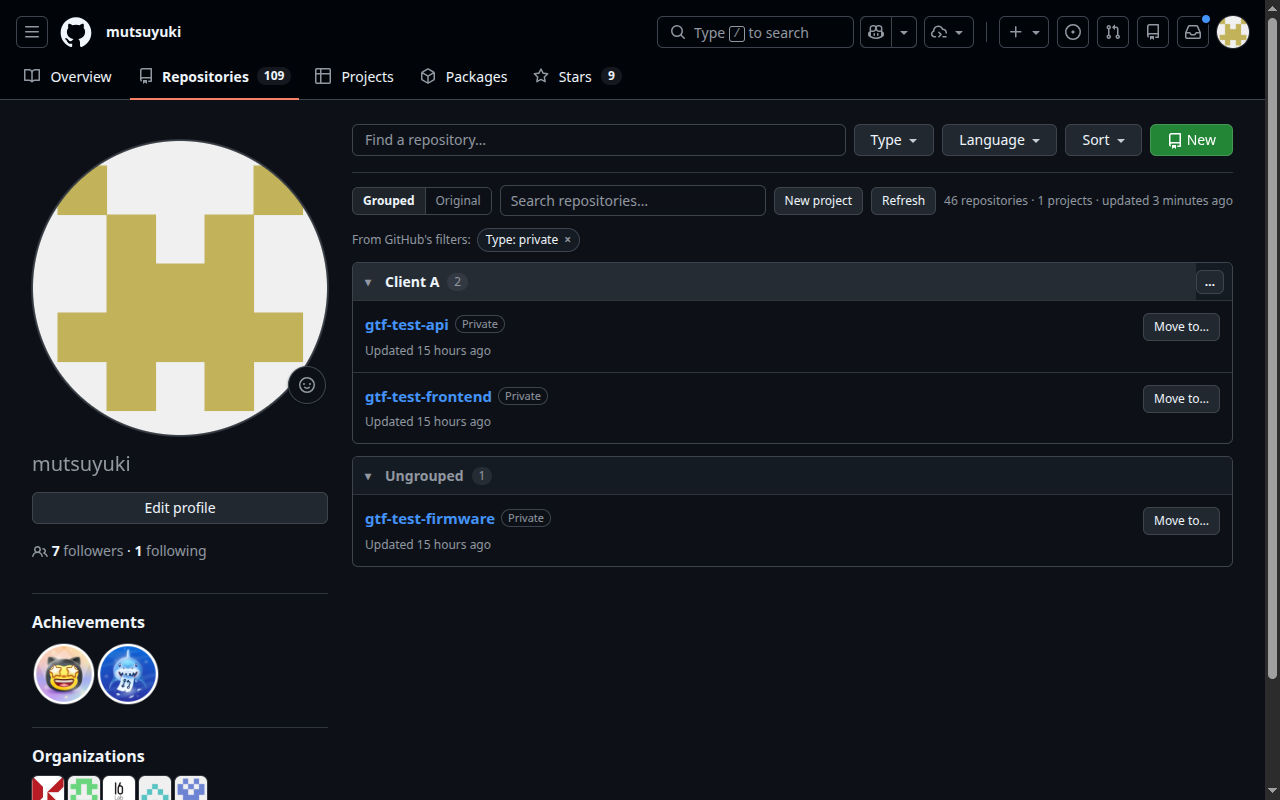
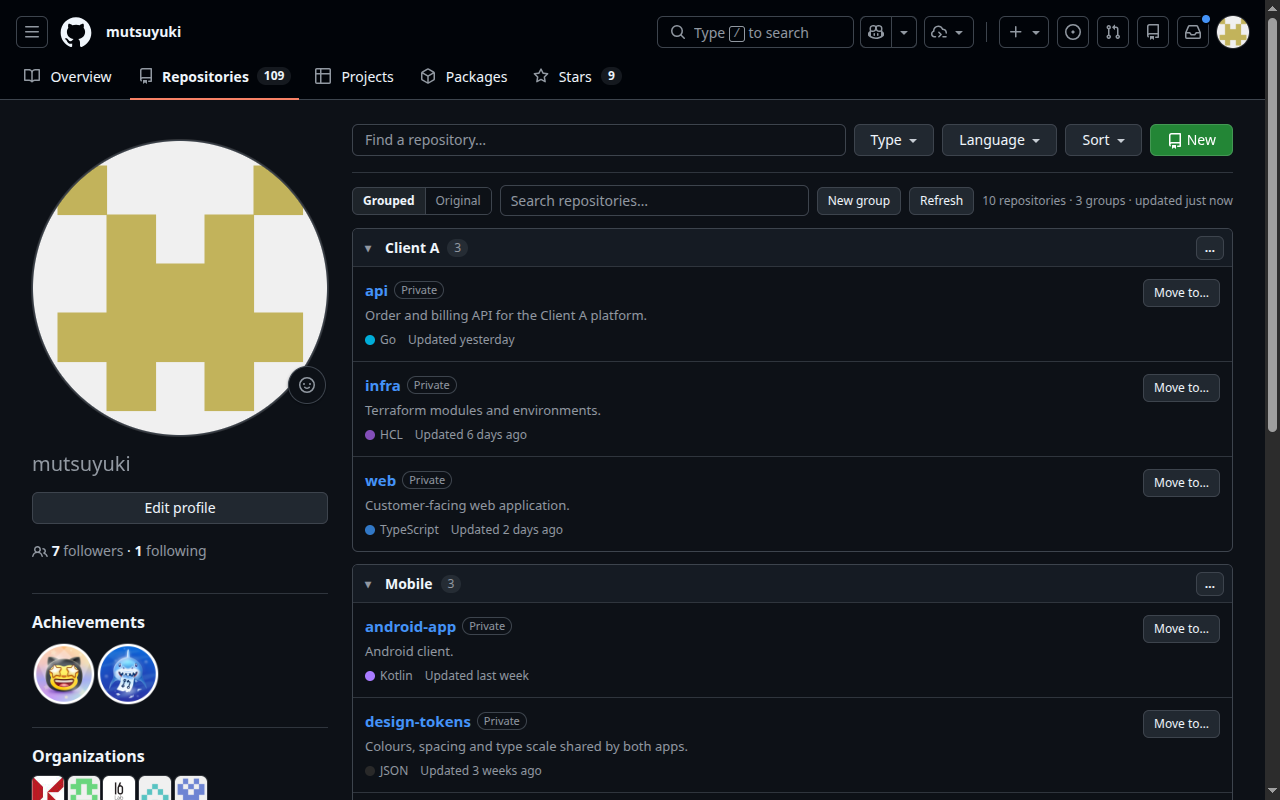
Store screenshots from a demo dataset, written entirely in the browser
scripts/demo-screenshots.mjs fills the extension's session cache with invented repositories, captures five
1280x800 screenshots (grouped view, Move to…, New group, Original, settings) and clears the cache again. No real
repository name appears and nothing is written to GitHub: no repositories are created and no topics are set.
Screenshots are captured through CDP because Playwright's screenshot waits for fonts and hangs while a modal
<dialog> is open. Supersedes the two provisional images taken from the test repositories.

Also fixes one word the terminology rename got wrong: in CLAUDE.md, '9222/9223 は他プロジェクト用' means other
projects on this machine, not this extension's groups.

diff --git a/docs/store-listing.md b/docs/store-listing.md
@@ -11,10 +11,33 @@
 | 開発者アカウント登録（初回 5 USD、Google アカウント） | **未** |
 | 公開者名を HASH7FF にする（要メール確認） | 未 |
 | アイコン 128×128 PNG | ✅ `icons/icon128.png`（`assets/icon.svg` から生成） |
-| スクリーンショット 1280×800（1〜5 枚） | 🔶 暫定 `assets/screenshots/`。**実リポを分類してから撮り直す**（現状はテストリポ 3 つだけで説得力が弱い） |
+| スクリーンショット 1280×800（5 枚） | ✅ `assets/screenshots/`。**デモ用データ**で撮影（下記） |
 | プライバシーポリシー URL | ✅ https://hash7ff.github.io/github-topic-groups/privacy.html |
 | ホームページ URL | ✅ https://hash7ff.github.io/github-topic-groups/ |
 | サポート連絡先 | contact@hash7ff.com |
+
+## スクリーンショットの作り方
+
+`node scripts/demo-screenshots.mjs` で 1280×800 を 5 枚生成する（`--keep` を付けるとデモ状態のまま残る）。
+
+**実在のリポジトリは 1 つも写らない。** 拡張のセッションキャッシュに架空のリポジトリ一覧を書き込んでから撮影し、
+最後にキャッシュを消すだけなので、**GitHub には一切書き込まない**（Topic も付けない、リポジトリも作らない）。
+デモの内容は `scripts/demo-screenshots.mjs` の `DEMO` 配列にあり、Client A / Mobile / Oss の 3 グループと
+未分類 2 件で構成している。
+
+| ファイル | 内容 |
+|---|---|
+| `01-grouped.png` | グループ表示の全体像 |
+| `02-move-to.png` | Move to… ダイアログ |
+| `03-new-group.png` | 新規グループ作成（Topic プレビューと公開性の警告つき） |
+| `04-original.png` | Original 表示へ戻せること |
+| `05-settings.png` | 設定画面（Sign in with GitHub） |
+
+注意点が 2 つある。
+- プロフィール左側に本人のアバターと所属 Organization が写る。いずれも公開情報だが、避けたい場合は
+  Organization のリポジトリ一覧ページで撮ると個人情報は写らない。
+- GitHub のタブに出る総数（現在 109）はデモの件数と一致しない。気になる場合は撮影時に DOM 上の数値も
+  合わせる（掲載の可否に影響する類のものではない）。
 
 ## リスティング
 

diff --git a/CLAUDE.md b/CLAUDE.md
@@ -7,5 +7,5 @@ Chrome MV3 拡張。GitHub Repository 一覧を `topic-groups-*` Topic ごとに
 - 仕様: docs/Plan.md ／ 実装計画（マイルストーン・決定ログ・検証済み事実）: docs/ImplementationPlan.md
 - 最重要要件: 既存 Topics を壊さない（非 `topic-groups-*` Topic を必ず保持）／PAT を Content Script・DOM・ログに出さない／GitHub 標準 UI へ常に戻せる。
 - 純粋ロジックは `src/core/`（chrome.* と DOM に触らない）。`npm run check` で typecheck + test + build + トークン隔離チェック。
-- 実機確認はホスト Chrome の専用プロファイル（CDP 9224）。9222/9223 は他グループ用なので触らない。
+- 実機確認はホスト Chrome の専用プロファイル（CDP 9224）。9222/9223 は他プロジェクト用なので触らない。
 - push・GitHub 上のリモート操作は田中さんがホストで行う。エージェントはローカル commit まで。
